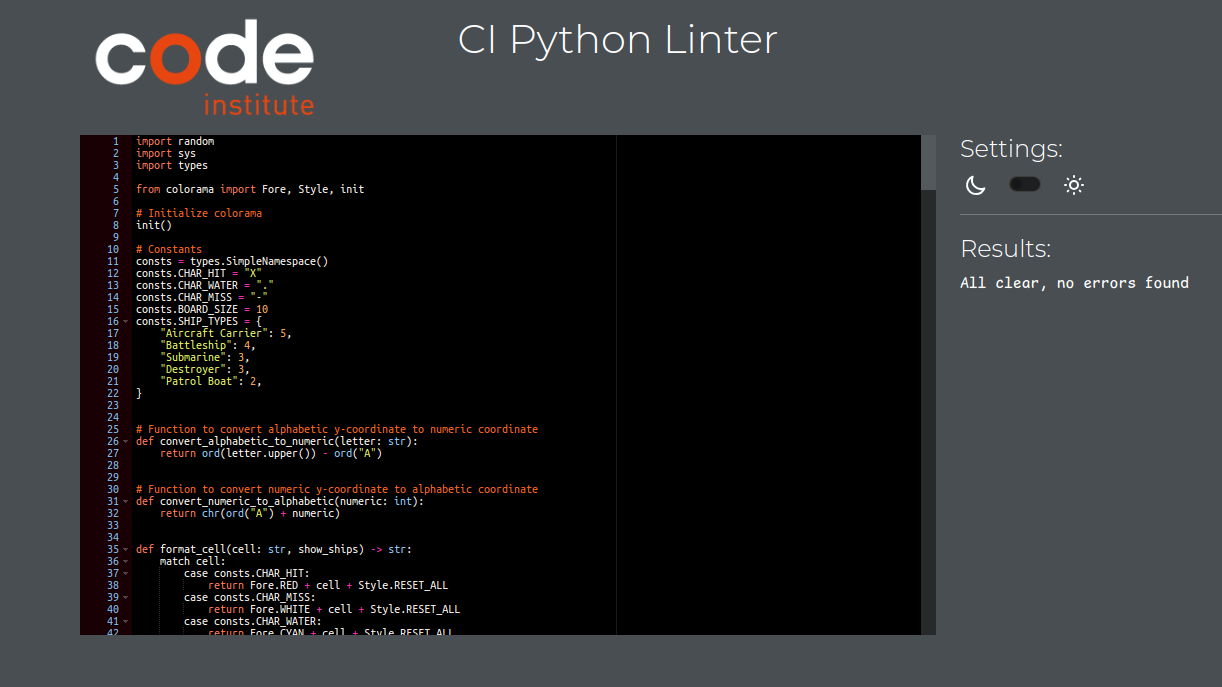
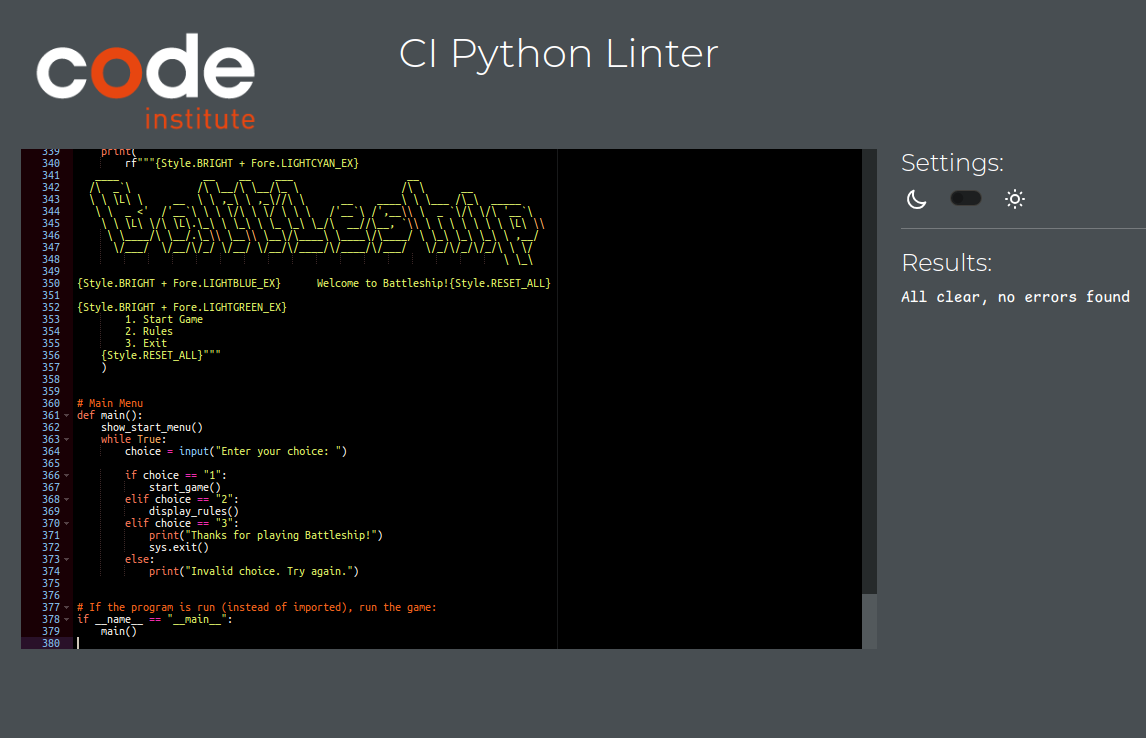
add bright to colorama colors

Changed region(s): [[0.0, 0.0306, 0.8857, 0.9476], [0.336, 0.0306, 0.6414, 0.0917], [0.7635, 0.3362, 1.0, 0.4279]]

diff --git a/run.py b/run.py
@@ -5,7 +5,7 @@ import types
 from colorama import Fore, Style, init
 
 # Initialize colorama
-init()
+init(autoreset=True)
 
 # Constants
 consts = types.SimpleNamespace()
@@ -35,16 +35,16 @@ def convert_numeric_to_alphabetic(numeric: int):
 def format_cell(cell: str, show_ships) -> str:
     match cell:
         case consts.CHAR_HIT:
-            return Fore.RED + cell + Style.RESET_ALL
+            return Style.BRIGHT + Fore.RED + cell + Style.RESET_ALL
         case consts.CHAR_MISS:
-            return Fore.WHITE + cell + Style.RESET_ALL
+            return Style.BRIGHT + Fore.WHITE + cell + Style.RESET_ALL
         case consts.CHAR_WATER:
-            return Fore.CYAN + cell + Style.RESET_ALL
+            return Fore.BLUE + cell + Style.RESET_ALL
         case _:
             return (
-                Fore.BLUE + cell + Style.RESET_ALL
+                Fore.CYAN + cell + Style.RESET_ALL
                 if show_ships
-                else Fore.CYAN + consts.CHAR_WATER + Style.RESET_ALL
+                else Fore.BLUE + consts.CHAR_WATER + Style.RESET_ALL
             )
 
 
@@ -337,7 +337,7 @@ def display_rules():
 # Function to show the start menu
 def show_start_menu():
     print(
-        r"""
+        rf"""{Style.BRIGHT + Fore.LIGHTCYAN_EX}
    ____              __    __    ___                   __
   /\  _`\           /\ \__/\ \__/\_ \                 /\ \      __
   \ \ \L\ \     __  \ \ ,_\ \ ,_\//\ \      __    ____\ \ \___ /\_\  _____
@@ -347,12 +347,13 @@ def show_start_menu():
       \/___/  \/__/\/_/ \/__/ \/__/\/____/\/____/\/___/   \/_/\/_/\/_/\ \ \/
                                                                        \ \_\
 
-        Welcome to Battleship!
+{Style.BRIGHT + Fore.LIGHTBLUE_EX}      Welcome to Battleship!{Style.RESET_ALL}
 
+{Style.BRIGHT + Fore.LIGHTGREEN_EX}
         1. Start Game
         2. Rules
         3. Exit
-    """  # noqa violation_error
+    {Style.RESET_ALL}"""
     )
 
 
@@ -376,4 +377,3 @@ def main():
 # If the program is run (instead of imported), run the game:
 if __name__ == "__main__":
     main()
-
